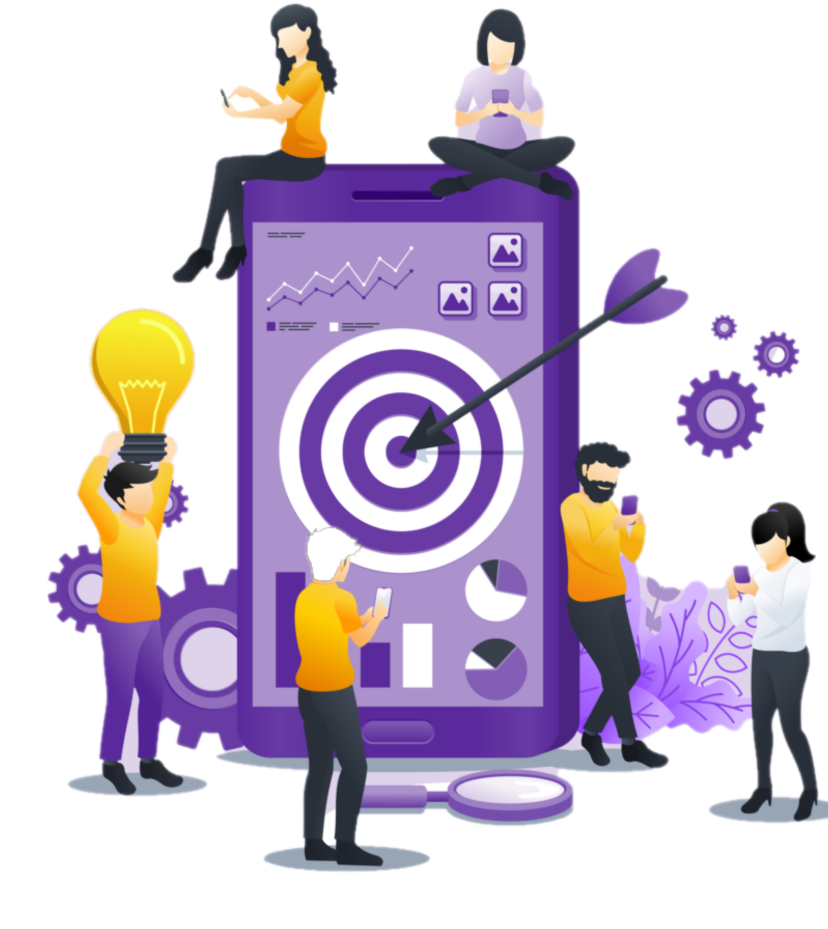
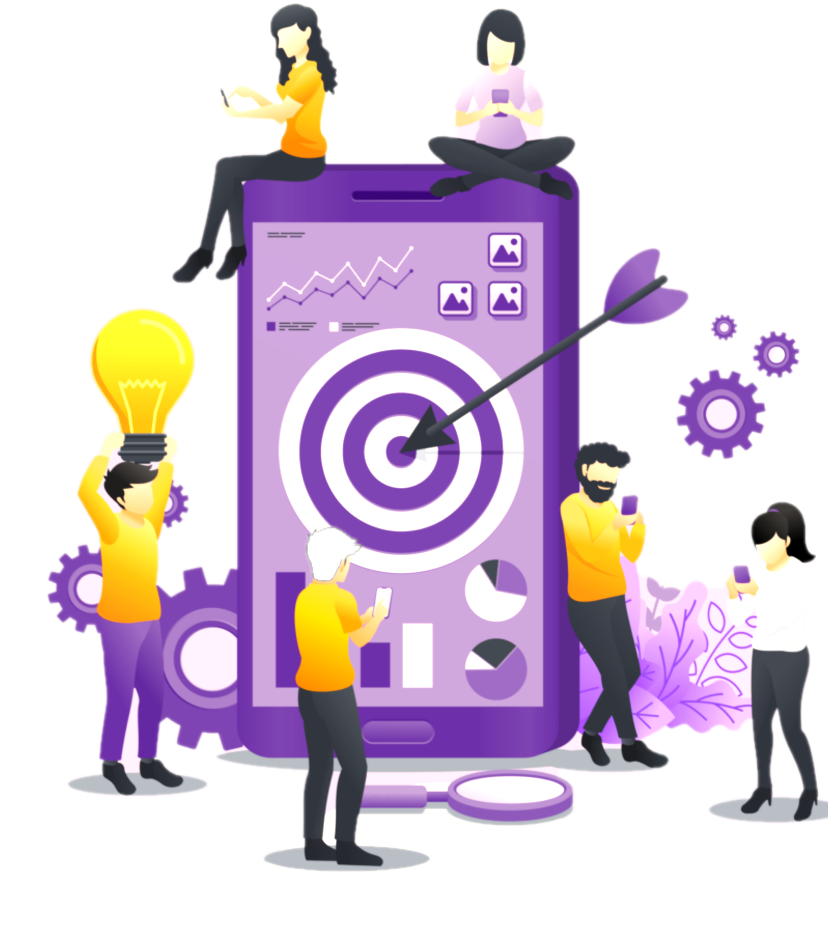
'css修正'

diff --git a/css/index.css b/css/index.css
@@ -37,7 +37,7 @@ header .color {
   margin-top: -150px;
   margin-right: -70px;
   box-shadow: 0 2px 30px #999;
-  background: linear-gradient(#c5b2d6, #a88bde, #8f64ab);
+  background: linear-gradient(#ffccff, #ff99ff, #ff66ff);
   width: 700px;
   height: 700px;
   transform-origin: 50% 48%;
@@ -71,16 +71,16 @@ header .color {
   border-radius: 20px;
   color: #702c91;
   text-shadow: 1px 1px 1px rgba(255, 255, 255, .5);
-  background: -moz-linear-gradient(top left, #fff, #461c54);
-  background: -webkit-linear-gradient(top left, #fff, #461c54);
-  background: linear-gradient(to bottom right, #fff, #461c54);
+  background: -moz-linear-gradient(top left, #fff, #ff66ff);
+  background: -webkit-linear-gradient(top left, #fff, #ff66ff);
+  background: linear-gradient(to bottom right, #fff, #ff66ff);
   box-shadow: 0px 2px 2px rgba(0, 0, 0, .3);
-  border-bottom: 3px solid #6a397d;
+  border-bottom: 3px solid #cc66ff;
 }
 .detail_btn:hover {
-  background: -moz-linear-gradient(top right, #fff, #461c54);
-  background: -webkit-linear-gradient(top right, #fff, #461c54);
-  background: linear-gradient(to top left, #fff, #461c54);
+  background: -moz-linear-gradient(top right, #fff, #ff66ff);
+  background: -webkit-linear-gradient(top right, #fff, #ff66ff);
+  background: linear-gradient(to top left, #fff, #ff66ff);
 }
 .detail_btn:active {
   -webkit-transform: translateY(4px);
@@ -135,11 +135,11 @@ header .color {
   border-radius: 20px;
   color: #702c91;
   text-shadow: 1px 1px 1px rgba(255, 255, 255, .5);
-  background: -moz-linear-gradient(top left, #fff, #461c54);
-  background: -webkit-linear-gradient(top left, #fff, #461c54);
-  background: linear-gradient(to bottom right, #fff, #461c54);
+  background: -moz-linear-gradient(top left, #fff, #ff66ff);
+  background: -webkit-linear-gradient(top left, #fff, #ff66ff);
+  background: linear-gradient(to bottom right, #fff, #ff66ff);
   box-shadow: 0px 2px 2px rgba(0, 0, 0, .3);
-  border-bottom: 3px solid #6a397d;
+  border-bottom: 3px solid #cc66ff;
 }
 .about_tag2 {
   display: inline-block;
@@ -149,11 +149,11 @@ header .color {
   border-radius: 20px;
   color: #702c91;
   text-shadow: 1px 1px 1px rgba(255, 255, 255, .5);
-  background: -moz-linear-gradient(top left, #fff, #461c54);
-  background: -webkit-linear-gradient(top left, #fff, #461c54);
-  background: linear-gradient(to bottom right, #fff, #461c54);
+  background: -moz-linear-gradient(top left, #fff, #ff66ff);
+  background: -webkit-linear-gradient(top left, #fff, #ff66ff);
+  background: linear-gradient(to bottom right, #fff, #ff66ff);
   box-shadow: 0px 2px 2px rgba(0, 0, 0, .3);
-  border-bottom: 3px solid #6a397d;
+  border-bottom: 3px solid #cc66ff;
 }
 
 
@@ -204,7 +204,7 @@ header .color {
   top: 0;
   left: 0;
   box-shadow: 0 2px 30px #999;
-  background: linear-gradient(#c5b2d6, #a88bde, #8f64ab);
+  background: linear-gradient(#ffccff, #ff99ff, #ff66ff);
   width: 400px;
   height: 400px;
   border-radius: 45%;
@@ -217,16 +217,16 @@ header .color {
   border-radius: 20px;
   color: #702c91;
   text-shadow: 1px 1px 1px rgba(255, 255, 255, .5);
-  background: -moz-linear-gradient(top left, #fff, #461c54);
-  background: -webkit-linear-gradient(top left, #fff, #461c54);
-  background: linear-gradient(to bottom right, #fff, #461c54);
+  background: -moz-linear-gradient(top left, #fff, #ff66ff);
+  background: -webkit-linear-gradient(top left, #fff, #ff66ff);
+  background: linear-gradient(to bottom right, #fff, #ff66ff);
   box-shadow: 0px 2px 2px rgba(0, 0, 0, .3);
-  border-bottom: 3px solid #6a397d;
+  border-bottom: 3px solid #cc66ff;
 }
 .news_btn:hover {
-  background: -moz-linear-gradient(top right, #fff, #461c54);
-  background: -webkit-linear-gradient(top right, #fff, #461c54);
-  background: linear-gradient(to top left, #fff, #461c54);
+  background: -moz-linear-gradient(top right, #fff, #ff66ff);
+  background: -webkit-linear-gradient(top right, #fff, #ff66ff);
+  background: linear-gradient(to top left, #fff, #ff66ff);
 }
 .news_btn:active {
   -webkit-transform: translateY(4px);
@@ -240,7 +240,7 @@ header .color {
   bottom: 0;
   right: 0;
   box-shadow: 0 2px 30px #999;
-  background: linear-gradient(#c5b2d6, #a88bde, #8f64ab);
+  background: linear-gradient(#ffccff, #ff99ff, #ff66ff);
   width: 210px;
   height: 200px;
   border-radius: 46%;
@@ -310,16 +310,16 @@ header .color {
   border-radius: 20px;
   color: #702c91;
   text-shadow: 1px 1px 1px rgba(255, 255, 255, .5);
-  background: -moz-linear-gradient(top left, #fff, #461c54);
-  background: -webkit-linear-gradient(top left, #fff, #461c54);
-  background: linear-gradient(to bottom right, #fff, #461c54);
+  background: -moz-linear-gradient(top left, #fff, #ff66ff);
+  background: -webkit-linear-gradient(top left, #fff, #ff66ff);
+  background: linear-gradient(to bottom right, #fff, #ff66ff);
   box-shadow: 0px 2px 2px rgba(0, 0, 0, .3);
-  border-bottom: 3px solid #6a397d;
+  border-bottom: 3px solid #cc66ff;
 }
 .service_btn:hover {
-  background: -moz-linear-gradient(top right, #fff, #461c54);
-  background: -webkit-linear-gradient(top right, #fff, #461c54);
-  background: linear-gradient(to top left, #fff, #461c54);
+  background: -moz-linear-gradient(top right, #fff, #ff66ff);
+  background: -webkit-linear-gradient(top right, #fff, #ff66ff);
+  background: linear-gradient(to top left, #fff, #ff66ff);
 }
 .service_btn:active {
   -webkit-transform: translateY(4px);
@@ -335,7 +335,7 @@ header .color {
   left: 0;
   margin-left: -300px;
   box-shadow: 0 2px 30px #999;
-  background: linear-gradient(#c5b2d6, #a88bde, #8f64ab);
+  background: linear-gradient(#ffccff, #ff99ff, #ff66ff);
   width: 400px;
   height: 400px;
   border-radius: 47%;
@@ -348,7 +348,7 @@ header .color {
   right: 0;
   margin-right: -300px;
   box-shadow: 0 2px 30px #999;
-  background: linear-gradient(#c5b2d6, #a88bde, #8f64ab);
+  background: linear-gradient(#ffccff, #ff99ff, #ff66ff);
   width: 500px;
   height: 500px;
   border-radius: 46%;
@@ -391,7 +391,7 @@ header .color {
 }
 .contact_txt {
   line-height: 1.8;
-  font-weight: bold;
+  font-weight: 500;
 }
 
 .form .label {
@@ -428,18 +428,20 @@ header .color {
   padding: 20px 50px;
   font-weight: bold;
   border-radius: 20px;
-  color: #702c91;
   text-shadow: 1px 1px 1px rgba(255, 255, 255, .5);
-  background: -moz-linear-gradient(top left, #fff, #461c54);
-  background: -webkit-linear-gradient(top left, #fff, #461c54);
-  background: linear-gradient(to bottom right, #fff, #461c54);
+  background: -moz-linear-gradient(top left, #fff, #ff66ff);
+  background: -webkit-linear-gradient(top left, #fff, #ff66ff);
+  background: linear-gradient(to bottom right, #fff, #ff66ff);
   box-shadow: 0px 2px 2px rgba(0, 0, 0, .3);
-  border-bottom: 3px solid #6a397d;
+  border-bottom: 3px solid #cc66ff;
+}
+.contact_button a {
+  color: #702c91;
 }
 .contact_button:hover {
-  background: -moz-linear-gradient(top right, #fff, #461c54);
-  background: -webkit-linear-gradient(top right, #fff, #461c54);
-  background: linear-gradient(to top left, #fff, #461c54);
+  background: -moz-linear-gradient(top right, #fff, #ff66ff);
+  background: -webkit-linear-gradient(top right, #fff, #ff66ff);
+  background: linear-gradient(to top left, #fff, #ff66ff);
 }
 .contact_button:active {
   -webkit-transform: translateY(4px);
@@ -453,7 +455,7 @@ header .color {
   bottom: 0;
   margin-left: -320px;
   box-shadow: 0 2px 30px #999;
-  background: linear-gradient(#c5b2d6, #a88bde, #8f64ab);
+  background: linear-gradient(#ffccff, #ff99ff, #ff66ff);
   width: 600px;
   height: 600px;
   border-radius: 47%;
@@ -476,7 +478,6 @@ header .color {
     width: 300px;
     height: 300px;
     z-index: -10;
-    opacity: .7;
   }
   .catch_copy {
     margin: 0 auto;

diff --git a/css/service.css b/css/service.css
@@ -229,6 +229,7 @@ table td {
   font-weight: bold;
   border-right: 1px solid #bbb;
 }
+
 table th {
   font-size: 20px;
 }
@@ -273,11 +274,12 @@ table thead tr{
   table td {
     border-bottom: 1px solid #bbb;
     display: block;
-    font-size: 20px;
     text-align: right;
-    position: relative;
     border-right: none;
     text-align: center;
+    font-size: 15px;
+    font-weight: 500;
+    line-height: 1.2;
   }
   table td::before {
     content: attr(data-label);
@@ -292,7 +294,6 @@ table thead tr{
     width: 300px;
     height: 300px;
     z-index: -10;
-    opacity: .7;
   }
   .fluid {
     width: 500px;

diff --git a/css/common1.css b/css/common1.css
@@ -164,17 +164,17 @@ input:first-of-type:focus {
     width: 100%;
     padding: 0 10px;
     box-sizing: border-box;
+    text-align: center;
   }
   .footer .footer_wrap .footer_box {
   width: 100%;
   }
-  .footer .footer_wrap .footer_box ul {
-    border-top: 1px solid #c4c4c4;
-  }
   .footer .footer_wrap .footer_box ul li a {
     display: block;
     padding: 5px 15px;
-    border-bottom: 1px solid #c4c4c4;
+  }
+  .sarch {
+    margin: 0 auto;
   }
   .fluid_four {
     display: none;

diff --git a/css/news.css b/css/news.css
@@ -132,7 +132,7 @@
   text-align: left;
   font-weight: bold;
   padding: 20px 0 20px 30px;
-  line-height: 1.2;
+  line-height: 1.5;
 }
 .one a {
   color: cornflowerblue;
@@ -202,7 +202,6 @@
   width: 300px;
   height: 300px;
   z-index: -10;
-  opacity: .7;
 }
 .news_title h1 {
   font-size: 30px;
@@ -219,5 +218,9 @@
 }
 .card_img img {
   width: 300px;
+}
+.text {
+  font-size: 14px;
+  font-weight: 500;
 }
 }

diff --git a/css/detail.css b/css/detail.css
@@ -150,6 +150,7 @@
   .top_box td,
   .top_box th {
     display: block;
+    text-align: center;
   }
   .top_box th {
     width: auto;
@@ -167,7 +168,6 @@
     width: 300px;
     height: 300px;
     z-index: -10;
-    opacity: .7;
   }
   .fluid {
     width: 500px;
